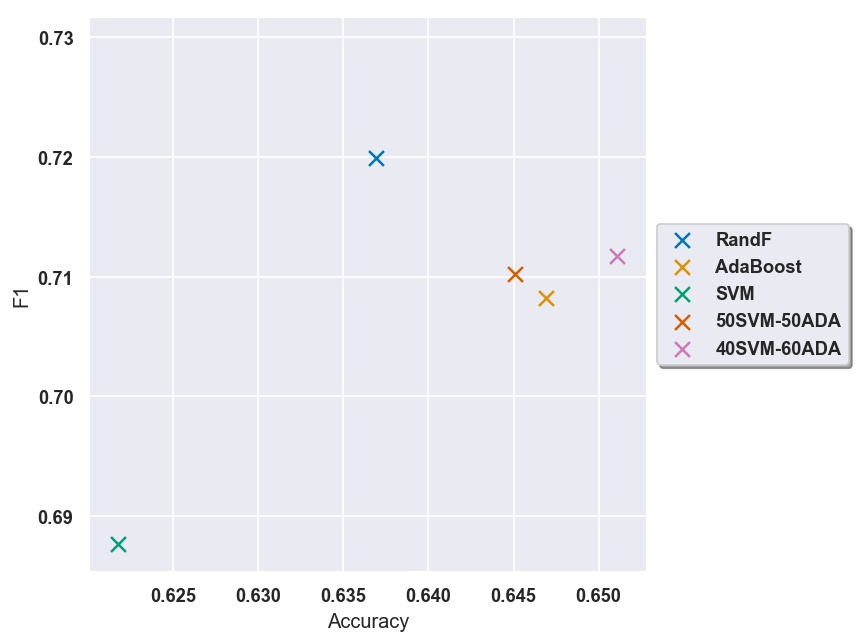
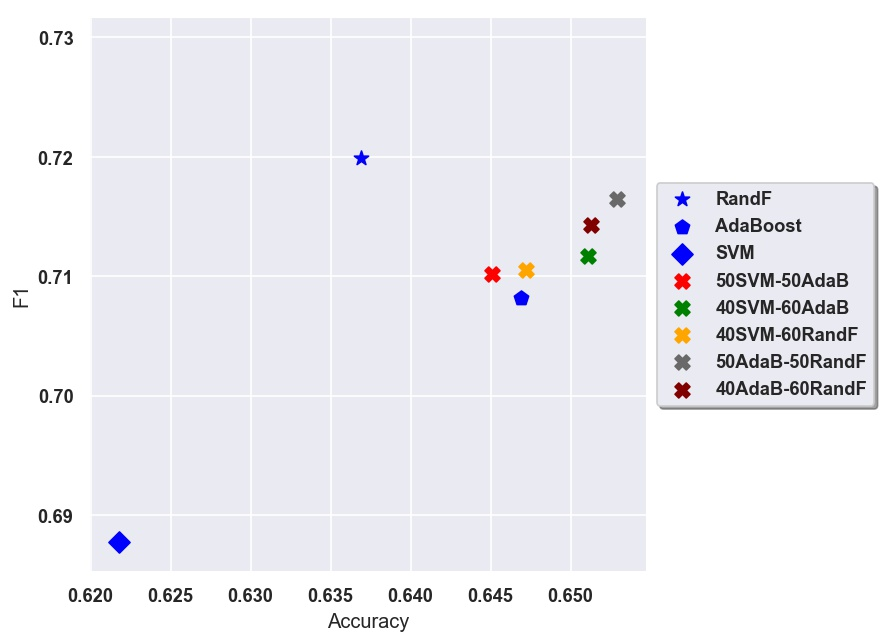
Add other results and refactor plot to cluster the ensembles

diff --git a/plots.py b/plots.py
@@ -42,12 +42,15 @@ def make_accuracy_f1_plot(results_filename, plot_filename, logger):
   acc = results_df['Accuracy'].values
   f1 = results_df['F1'].values
 
-  colors = ['orange', 'blue', 'red', 'yellow', 'navy', 'maroon']
-  colors = sns.color_palette("colorblind", f1.shape[0])
+  colors = ['orange', 'blue', 'red', 'yellow', 'navy', 'maroon', 'green', 'pink', 'teal']
+  colors = ['blue', 'blue', 'blue', 'red', 'green', 'orange', 'dimgray', 'maroon']
+  markers = ['*', 'p', 'D', 'X', 'X', 'X', 'X', 'X']
+  #colors = sns.color_palette("Paired", f1.shape[0])
+  print(colors)
   for i, model in enumerate(models):
     x = acc[i]
     y = f1[i]
-    plt.scatter(x, y, marker = 'x', color = colors[i], label = str(model), s = [80])
+    plt.scatter(x, y, marker = markers[i], color = colors[i], label = str(model), s = [80])
 
   plt.xlabel("Accuracy")
   plt.ylabel("F1")
